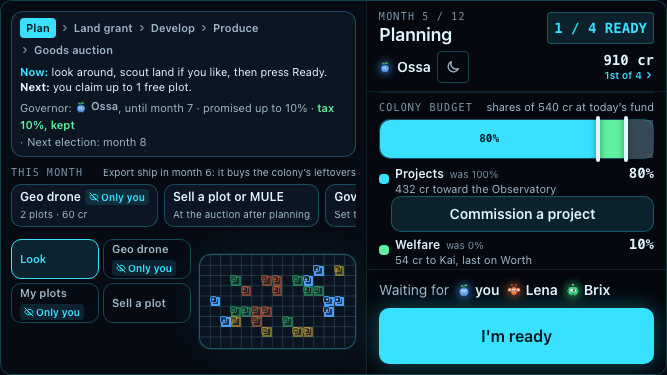
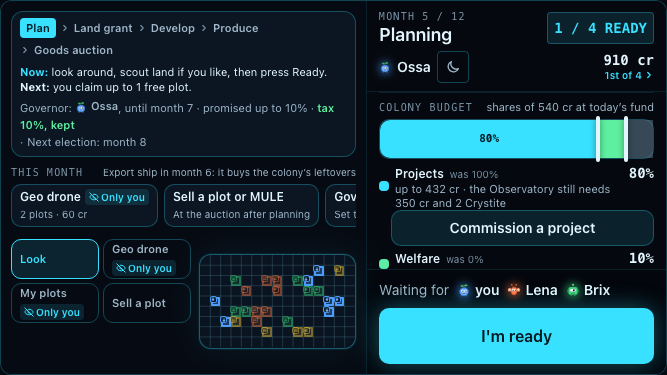
chore(mocks): politics P12/P15, the Projects share is a ceiling (AM-7)
The Projects line reads "up to 432 cr · the Observatory still needs 350 cr
and 2 Crystite", built from the colony view's cost and funded; Kept reads
"54 cr, and what the buildings don't take". The Observatory is config's
350 cr; the 700 fixture is gone. The month end is run by S5-RULE-3 in the
fixture: Buildings 350, 82 more stays, fund 236 cr, paid out 499.

Changed region(s): [[0.5697, 0.4693, 0.9895, 0.7333]]

diff --git a/design/mocks/politics-budget/src/fixture.ts b/design/mocks/politics-budget/src/fixture.ts
@@ -216,9 +216,9 @@ function colonyView(scene: Scene): ColonyView {
   const catalogue = (Object.keys(PRESTIGE) as PrestigeId[]).map((id) => {
     const p = PRESTIGE[id];
     const open = id === 'park' || id === 'observatory';
-    return { id, name: p.name, credits: id === 'observatory' ? OBSERVATORY.credits : p.credits, goods: p.goods, buildMonths: p.buildMonths, prestige: p.prestige, upkeep: p.upkeep, commissionable: !open, why: open ? 'Already commissioned' : null };
+    return { id, name: p.name, credits: p.credits, goods: p.goods, buildMonths: p.buildMonths, prestige: p.prestige, upkeep: p.upkeep, commissionable: !open, why: open ? 'Already commissioned' : null };
   });
-  const obs = { ...PRESTIGE.observatory, ...OBSERVATORY };
+  const obs = PRESTIGE.observatory;
   const monthEnd = scene.moment === 'monthEnd';
   return {
     gauges: { wealth: 18_400, environment: 31, prestige: 2, happiness: 58, band: 'content' },
@@ -232,7 +232,8 @@ function colonyView(scene: Scene): ColonyView {
       },
       {
         id: 'observatory', name: obs.name, stage: 'commissioned', cost: { credits: obs.credits, goods: obs.goods },
-        funded: { credits: monthEnd ? MONTH_END.out.project : 0, goods: obs.goods }, buildMonths: obs.buildMonths, monthsLeft: null,
+        // Nothing funded yet; at the month end its credits, not its Crystite: the store has none (AM-7's worked example).
+        funded: { credits: monthEnd ? MONTH_END.out.project : 0, goods: {} }, buildMonths: obs.buildMonths, monthsLeft: null,
         place: null, prestige: obs.prestige, upkeep: obs.upkeep, repairCost: null, plaque: [{ playerId: 'brix', value: 70 }],
       },
     ],
@@ -244,22 +245,29 @@ function colonyView(scene: Scene): ColonyView {
 }
 
 /**
- * The Observatory's credits as WS7 gives them (AM-5, via the PM: 700 cr, so all of Projects' 432 goes to it). Trunk's
- * config.ts PRESTIGE.observatory says 350 cr (feat/strategist and ws7-politics-rc alike): a fixture value until they agree.
+ * Month 5's upkeep (moment 5), run by S5-RULE-3 on §3's worked example (AM-5, AM-7), not written by hand: after the
+ * grant, office pay (80) and the Park's upkeep (15) the fund holds 640, so spare0 540. Welfare 10% pays 54 → Kai.
+ * Projects 80% is a ceiling of 432: the one open building, the Observatory (config: 350 cr and 2 Crystite, nothing
+ * funded), takes the 350 cr it still needs and no Crystite, since the store has none; the other 82 stay, with the 54
+ * kept. `start` is fixture only: no screen shows it.
  */
-export const OBSERVATORY = { credits: 700 } as const;
-
-/**
- * Month 5's upkeep (moment 5), on §3's worked example as the planning desk shows it (AM-5): after the grant, office pay
- * and the Park's upkeep the fund holds 640, so 540 spare (S5-RULE-3); Welfare 10% is 54 → Kai, Projects 80% is 432,
- * all of it to the Observatory ("Buildings 432"); 10% stays. `start` is fixture only: no screen shows it.
- */
-export const MONTH_END = {
-  start: FUND - 200 + 80 + 15,
-  in: { grant: 200 },
-  out: { officePay: 80, upkeep: 15, welfare: 54, project: 432 },
-  balance: FUND - 54 - 432,
-} as const;
+function upkeep() {
+  const officePay = 80;
+  const parkUpkeep = PRESTIGE.park.upkeep;
+  const afterObligations = FUND;
+  const welfare = creditsOf('welfare', SET.welfare, afterObligations);
+  const limit = creditsOf('projects', SET.projects, afterObligations);
+  // Step 3c: commission order, each building only what it still needs; goods only as the store can sell them (none).
+  const project = Math.min(limit, PRESTIGE.observatory.credits);
+  return {
+    start: afterObligations - 200 + officePay + parkUpkeep,
+    in: { grant: 200 },
+    out: { officePay, upkeep: parkUpkeep, welfare, project },
+    limit,
+    balance: afterObligations - welfare - project,
+  };
+}
+export const MONTH_END = upkeep();
 
 /** The news lines a call, a withdrawal and the result add (S5-C7), none naming a voter (§3.4). */
 function newsOf(scene: Scene): string[] {

diff --git a/design/mocks/politics-budget/src/proposed/GovernorBudget.tsx b/design/mocks/politics-budget/src/proposed/GovernorBudget.tsx
@@ -9,7 +9,7 @@ import { usePhoneGame } from '../../../../../apps/web/src/phone/game';
 import { COLONY } from '@mule/engine';
 import { creditsOf, type RcLine, type Shares } from '../fixture';
 import { DraftSeed } from '../seed';
-import { about, LINE_NAME, lineGoes } from './words';
+import { keptWords, LINE_NAME, lineWords } from './words';
 
 /*
  * P12 · the Governor's budget. GRAFT TARGET: apps/web/src/phone/hub/politics/Governor.tsx, right under SalesTax and
@@ -113,7 +113,7 @@ interface Editor {
   onChange(s: Shares): void;
 }
 
-/** "432 cr toward the Observatory", "54 cr to Kai, last on Worth": what a share pays, and where. At Welfare 0%, who it would go to (AM-5). */
+/** "up to 432 cr · the Observatory still needs 350 cr and 2 Crystite", "54 cr to Kai, last on Worth" (AM-7). At Welfare 0%, who it would go to (AM-5). */
 function Pays({ view, budget, id, share, className }: { view: MuleView; budget: BudgetView; id: RcLine; share: number; className?: string }) {
   const credits = creditsOf(id, share, view.politics!.fund);
   const to = view.players.find((p) => p.id === budget.welfareTo)?.name;
@@ -125,7 +125,7 @@ function Pays({ view, budget, id, share, className }: { view: MuleView; budget: 
     );
   return (
     <span className={cx('min-w-0 text-[11px] leading-tight text-ink-2 @min-[1100px]/shell:text-sm', className)} data-testid={`budget-pays-${id}`}>
-      {credits === 0 ? lineGoes(id, view, budget.welfareTo, 0) : `${about(credits)} ${lineGoes(id, view, budget.welfareTo, credits)}`}
+      {lineWords(id, view, budget.welfareTo, credits)}
     </span>
   );
 }
@@ -180,7 +180,7 @@ function Steppers({ view, budget, draft, kept, onChange, line }: Editor & { line
       <div className="grid grid-cols-[minmax(0,1fr)_auto] items-baseline gap-x-1.5 border-t border-holo-faint pt-1" data-testid="budget-line-kept">
         <span className="flex min-w-0 flex-col">
           <span className="text-xs font-semibold @min-[1100px]/shell:text-base">Kept in the fund</span>
-          <span className="truncate text-[11px] leading-tight text-ink-2 @min-[1100px]/shell:text-sm">{kept > 0 ? `${about(keptCredits(view, kept))} stays for later months` : 'nothing kept back this month'}</span>
+          <span className="text-[11px] leading-tight text-ink-2 @min-[1100px]/shell:text-sm">{keptWords(keptCredits(view, kept))}</span>
         </span>
         {/* Under the steppers' value: right of it sit the + button and its gap, 10 + 1 spacing units. */}
         <span data-num className="mr-11 w-12 text-center font-mono text-lg font-bold leading-none text-ink-2 @min-[1100px]/shell:mr-12 @min-[1100px]/shell:w-16 @min-[1100px]/shell:text-2xl" data-testid="budget-share-kept">
@@ -285,9 +285,9 @@ function SplitBar({ view, budget, draft, kept, onChange }: Editor) {
                 )}
               </span>
               {p.id === 'kept' ? (
-                <span className="truncate text-[11px] leading-tight text-ink-2 @min-[1100px]/shell:text-sm">{kept > 0 ? `${about(keptCredits(view, kept))} stays for later months` : 'nothing kept back this month'}</span>
+                <span className="text-[11px] leading-tight text-ink-2 @min-[1100px]/shell:text-sm">{keptWords(keptCredits(view, kept))}</span>
               ) : (
-                <Pays view={view} budget={budget} id={p.id} share={p.share} className="truncate" />
+                <Pays view={view} budget={budget} id={p.id} share={p.share} />
               )}
             </span>
             <span data-num className="font-mono text-sm font-bold @min-[1100px]/shell:text-lg" data-testid={`budget-share-${p.id}`}>

diff --git a/design/mocks/politics-budget/src/proposed/words.ts b/design/mocks/politics-budget/src/proposed/words.ts
@@ -1,4 +1,6 @@
+import type { Good } from '@mule/engine';
 import type { BudgetView, MuleView, OverruleView } from '@mule/protocol';
+import { GOOD_NAME } from '@mule/ui';
 
 /*
  * GRAFT TARGET: apps/web/src/phone/hub/politics/words.ts. The words every P12–P15 screen shares, so the phone, the TV and
@@ -12,16 +14,39 @@ export const LINE_NAME: Record<LineId, string> = { projects: 'Projects', welfare
 /** "432 cr": a share's credits at today's fund (budgetCredits), as §3's worked example states them (AM-5). */
 export const about = (credits: number) => `${credits.toLocaleString('en')} cr`;
 
-/** Where a line's money goes, in a few words: "toward the Observatory", "to Kai, last on Worth". */
-export function lineGoes(line: LineId, view: Pick<MuleView, 'players' | 'colony'>, welfareTo: string | null, credits: number): string {
-  if (credits === 0) return line === 'welfare' ? 'nothing this month' : 'nothing to buildings';
-  if (line === 'welfare') {
-    const to = view.players.find((p) => p.id === welfareTo)?.name;
-    return to ? `to ${to}, last on Worth` : 'to whoever is last on Worth';
-  }
-  const open = (view.colony?.projects ?? []).filter((p) => p.stage === 'commissioned' || p.stage === 'building');
-  return open.length === 0 ? 'for the next building commissioned' : `toward the ${open.map((p) => p.name).join(', then the ')}`;
+/** "a, b and c". */
+const and = (parts: string[]) => (parts.length <= 1 ? (parts[0] ?? '') : `${parts.slice(0, -1).join(', ')} and ${parts.at(-1)}`);
+
+/** Each open building and what it still needs, in commission order, from the colony view's cost and funded (AM-7). */
+export function stillNeeds(view: Pick<MuleView, 'colony'>): string[] {
+  return (view.colony?.projects ?? [])
+    .filter((p) => p.stage === 'commissioned')
+    .map((p) => {
+      const credits = p.cost.credits - p.funded.credits;
+      const goods = (Object.entries(p.cost.goods) as [Good, number][]).map(([g, n]) => [g, n - (p.funded.goods[g] ?? 0)] as const).filter(([, n]) => n > 0);
+      const parts = [...(credits > 0 ? [about(credits)] : []), ...goods.map(([g, n]) => `${n} ${GOOD_NAME[g]}`)];
+      return parts.length ? `the ${p.name} still needs ${and(parts)}` : `the ${p.name} has all it needs`;
+    });
 }
+
+/**
+ * A line's words after its share, the same on every screen: "up to 432 cr · the Observatory still needs 350 cr and 2
+ * Crystite" (AM-7: the Projects share is a ceiling; each building takes only what it still needs), "54 cr to Kai, last
+ * on Worth".
+ */
+export function lineWords(line: LineId, view: Pick<MuleView, 'players' | 'colony'>, welfareTo: string | null, credits: number): string {
+  if (line === 'welfare') {
+    if (credits === 0) return 'nothing this month';
+    const to = view.players.find((p) => p.id === welfareTo)?.name;
+    return `${about(credits)} ${to ? `to ${to}, last on Worth` : 'to whoever is last on Worth'}`;
+  }
+  if (credits === 0) return 'nothing to buildings';
+  const needs = stillNeeds(view);
+  return `up to ${about(credits)} · ${needs.length ? needs.join(' · ') : 'no building is waiting'}`;
+}
+
+/** The kept line's words (AM-7): what the share keeps, and what the buildings don't take stays too. */
+export const keptWords = (credits: number) => (credits > 0 ? `${about(credits)}, and what the buildings don’t take` : 'what the buildings don’t take');
 
 /** "Welfare 0% → 10%" when a line moved this month; just "Welfare 10%" when it didn't. */
 export const shareChange = (start: number, share: number) => (start === share ? `${share}%` : `${start}% → ${share}%`);

diff --git a/design/mocks/politics-budget/src/App.tsx b/design/mocks/politics-budget/src/App.tsx
@@ -21,7 +21,8 @@ import { frameSlots, OpenDesk } from './slots';
 /** The key decisions, one line each. */
 const DECISIONS: [string, string][] = [
   ['P12', 'The budget sits in the Governor desk right under the tax, before the law picker: the tax fills the fund, the budget spends it.'],
-  ['P12', 'Each line says what it pays at today’s fund and where it goes (“432 cr toward the Observatory”, “54 cr to Kai, last on Worth”: §3’s worked example, 540 cr spare). At Welfare 0% it says who it would go to.'],
+  ['P12', 'Each line says what it pays at today’s fund (§3’s worked example, 540 cr spare): “54 cr to Kai, last on Worth”; at Welfare 0% who it would go to.'],
+  ['P12', 'Projects is a ceiling, not a payment (AM-7): “up to 432 cr · the Observatory still needs 350 cr and 2 Crystite”; Kept reads “54 cr, and what the buildings don’t take”, so at upkeep 82 more stays.'],
   ['P12', 'Welfare’s + takes from what is kept, then from Projects; Projects’ + takes only from what is kept; − always gives back to the fund. So no sum can pass 100.'],
   ['P12', 'Commissioning moves under the Projects line, the real Commission unchanged; the Colony desk no longer shows it.'],
   ['P12', 'A call freezes the tax only (S5-RULE-2 in RC): the tax row turns read-only with who called it; the budget stays live.'],
@@ -33,8 +34,8 @@ const DECISIONS: [string, string][] = [
   ['P13', 'The ready bar: “Cast my vote” until you cast, then “Waiting for the overrule vote”; in the reveal, “Continue” (AM-5).'],
   ['P14', 'The TV’s planning header gains the budget line under the promise line. The call’s banner heads the side column, above who the table waits for: in the header it shrank the body to 0.763 (TV-FIT), in the side the news gives way and it stays at 0.896.'],
   ['P14', 'The overrule panel is TvCouncil’s frame. Its reveal bar is all the table’s votes with the mark at “needed”, not the half-way mark the law’s bar uses: the rules differ.'],
-  ['P15', 'On the phone the colony panel gains one line, “Paid out this month”: office pay, upkeep, Welfare 54 → Kai, Buildings 432. Out only.'],
-  ['P15', 'The TV shows the total only, at every seat count (PM ruling 7 Nov, on the measured 0.663 vs 0.701): “fund 154 cr · paid out 581” in the Wealth gauge’s note.'],
+  ['P15', 'On the phone the colony panel gains one line, “Paid out this month”: office pay, upkeep, Welfare 54 → Kai, Buildings 350 (the Observatory’s need, under the 432 ceiling). Out only.'],
+  ['P15', 'The TV shows the total only, at every seat count (PM ruling 7 Nov, on the measured 0.663 vs 0.701): “fund 236 cr · paid out 499” in the Wealth gauge’s note.'],
 ];
 
 interface StateDef {

diff --git a/design/mocks/politics-budget/src/proposed/FundLines.tsx b/design/mocks/politics-budget/src/proposed/FundLines.tsx
@@ -16,14 +16,14 @@ import { fmt, toSlot } from '../../../../../apps/web/src/game/derive';
  *
  * The TV: the TV shows the total only, at every seat count (PM ruling 7 Nov, on the measured 0.663 vs 0.701): the full
  * line took the month end under TV-FIT's 0.7 floor, the total in the Wealth gauge's note costs nothing. FundPaidNote,
- * "fund 154 cr · paid out 581". GRAFT TARGET: apps/web/src/components/Colony.tsx, ColonyGauges, the Wealth gauge's `note`
+ * "fund 236 cr · paid out 499". GRAFT TARGET: apps/web/src/components/Colony.tsx, ColonyGauges, the Wealth gauge's `note`
  * at size 'tv' in the month end. The gauges in every other phase, and on the phone, keep "fund N cr".
  */
 
 /** What the fund paid out this month, in all: the ledger's out lines summed. */
 export const paidOut = (view: Pick<MuleView, 'colony'>) => Object.values(view.colony?.ledger?.out ?? {}).reduce((n, v) => n + (v ?? 0), 0);
 
-/** The TV month end's Wealth note: "fund 154 cr · paid out 581". */
+/** The TV month end's Wealth note: "fund 236 cr · paid out 499". */
 export function FundPaidNote({ view }: { view: MuleView }) {
   if (!view.colony?.ledger) return null;
   return (
@@ -36,7 +36,7 @@ export function FundPaidNote({ view }: { view: MuleView }) {
 const OUT_ORDER: FundLine[] = ['officePay', 'upkeep', 'repair', 'strikePay', 'welfare', 'project'];
 const OUT_NAME: Partial<Record<FundLine, string>> = { officePay: 'office pay', upkeep: 'upkeep', repair: 'repairs', strikePay: 'strike pay', welfare: 'Welfare', project: 'Buildings' };
 
-/** The phone's full line: "Paid out this month: office pay 80, upkeep 15, Welfare 54 → Kai, Buildings 432". */
+/** The phone's full line: "Paid out this month: office pay 80, upkeep 15, Welfare 54 → Kai, Buildings 350". */
 export function FundLines({ view }: { view: MuleView }) {
   const ledger = view.colony?.ledger;
   if (!ledger) return null;

diff --git a/design/mocks/politics-budget/src/proposed/CouncilBudget.tsx b/design/mocks/politics-budget/src/proposed/CouncilBudget.tsx
@@ -1,7 +1,8 @@
+import { COLONY } from '@mule/engine';
 import { cx } from '@mule/ui';
 import { usePhoneGame } from '../../../../../apps/web/src/phone/game';
 import { Who } from '../../../../../apps/web/src/phone/hub/politics/parts';
-import { about, LINE_NAME, lineGoes, shareChange } from './words';
+import { keptWords, LINE_NAME, lineWords, shareChange } from './words';
 
 /*
  * P13 · the budget as set, for every seat (moment 1). GRAFT TARGET: apps/web/src/phone/hub/politics/Council.tsx,
@@ -40,7 +41,7 @@ export function CouncilBudget() {
                 {shareChange(l.start, l.share)}
               </span>
               <span className="col-span-2 text-[11px] leading-tight text-ink-2 @min-[1100px]/shell:text-sm" data-testid={`council-budget-pays-${l.line}`}>
-                {l.credits === 0 ? lineGoes(l.line, view, budget.welfareTo, 0) : `${about(l.credits)} ${lineGoes(l.line, view, budget.welfareTo, l.credits)}`}
+                {lineWords(l.line, view, budget.welfareTo, l.credits)}
               </span>
             </li>
           );
@@ -49,6 +50,9 @@ export function CouncilBudget() {
           <span className="text-xs text-ink-2 @min-[1100px]/shell:text-base">Kept in the fund</span>
           <span data-num className={cx('whitespace-nowrap font-mono text-xs font-bold @min-[1100px]/shell:text-base', keptStart === budget.kept ? 'text-ink-2' : 'text-holo')} data-testid="council-budget-share-kept">
             {shareChange(keptStart, budget.kept)}
+          </span>
+          <span className="col-span-2 text-[11px] leading-tight text-ink-2 @min-[1100px]/shell:text-sm" data-testid="council-budget-kept-words">
+            {keptWords(Math.floor((budget.kept * Math.max(0, politics.fund - COLONY.reserve)) / 100))}
           </span>
         </li>
       </ul>
